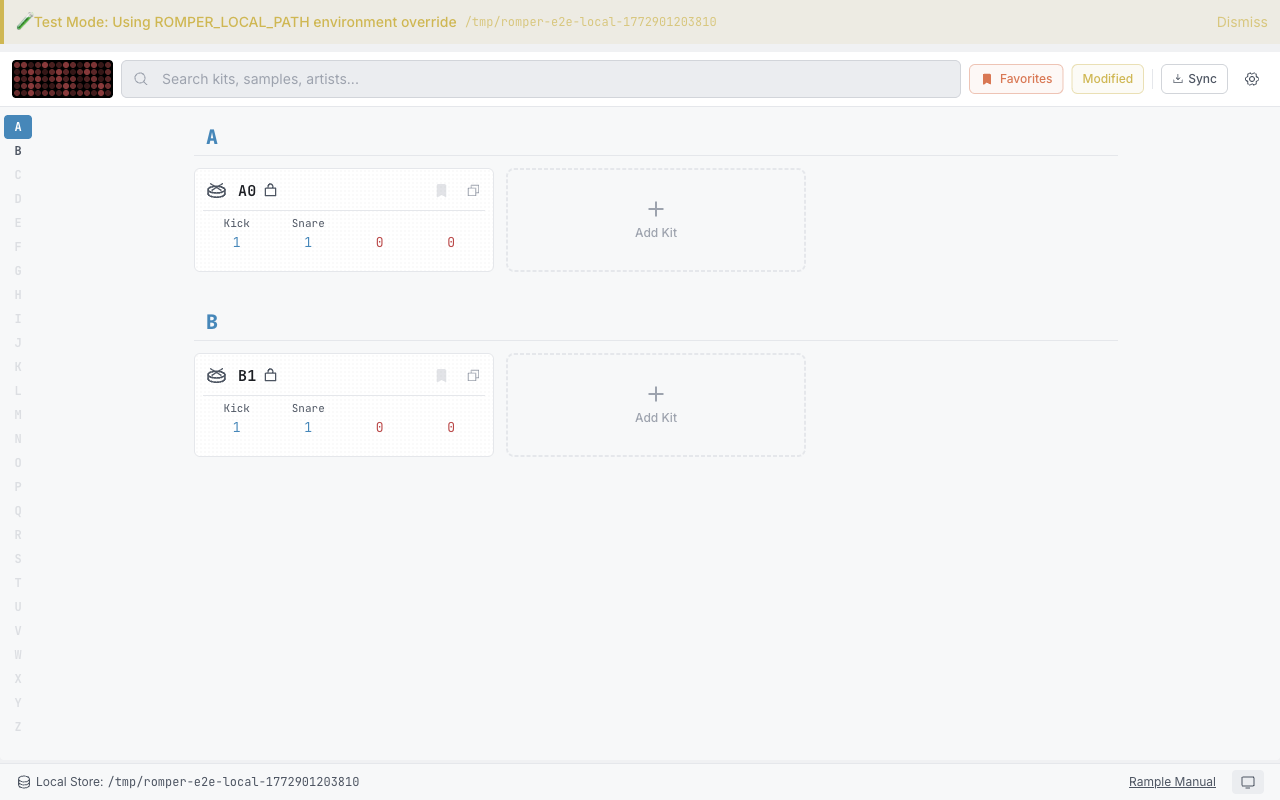
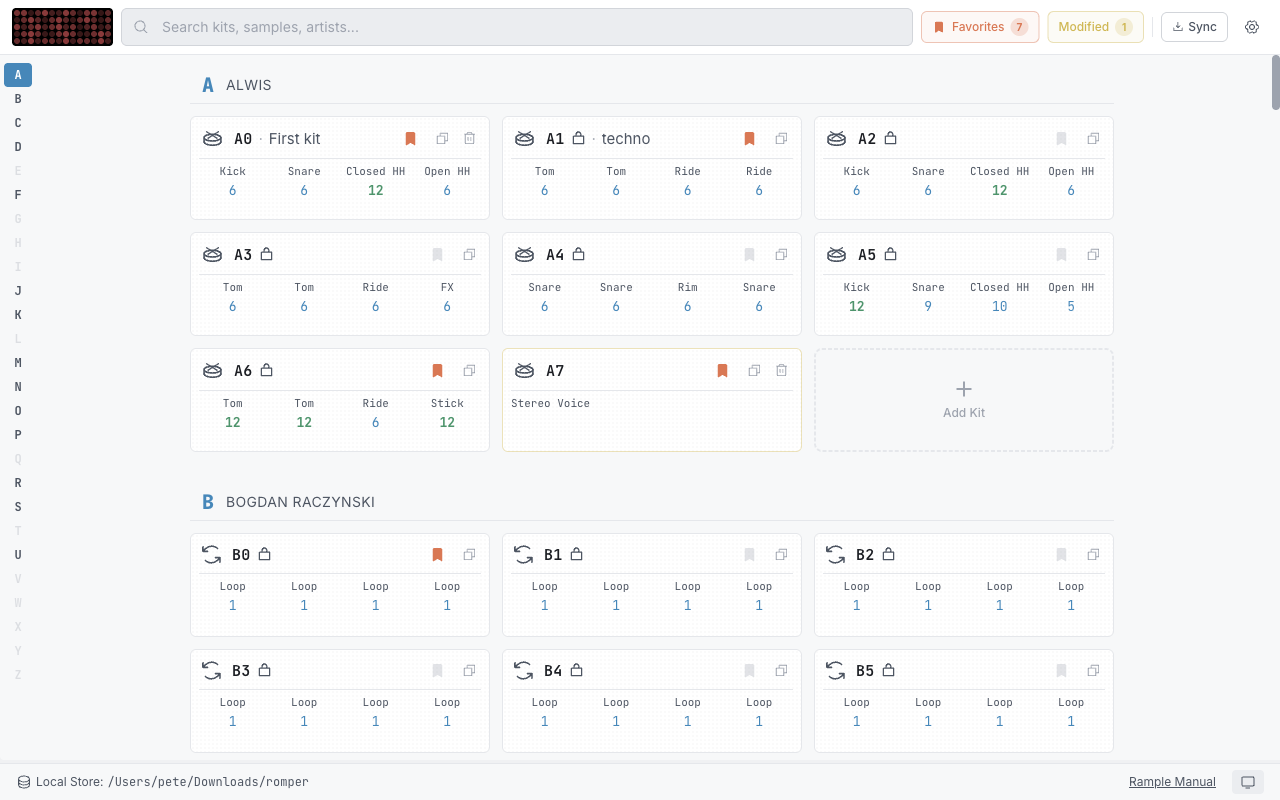
fix: use local store for screenshot capture instead of e2e fixtures (#156)
Remove e2e fixture dependency from screenshot script. The app now
launches with the real local Romper instance, producing screenshots
with actual kits and samples instead of bare test data with the
"Test Mode" banner.

diff --git a/scripts/capture-screenshots.ts b/scripts/capture-screenshots.ts
@@ -1,8 +1,13 @@
 /**
  * Screenshot Capture Script for Romper Documentation
  *
- * Launches the Electron app with e2e fixtures and captures screenshots
- * of specified views/elements for use in the website and manual.
+ * Launches the Electron app using the local Romper instance (your real
+ * local store with actual kits) and captures screenshots of specified
+ * views/elements for use in the website and manual.
+ *
+ * Prerequisites:
+ *   - A configured Romper local store with kits (the app must have been
+ *     set up at least once so romper-settings.json exists)
  *
  * Usage:
  *   npx tsx scripts/capture-screenshots.ts [--target <name>] [--all] [--list]
@@ -22,11 +27,6 @@
 import path from "path";
 import { _electron as electron } from "playwright";
 import { fileURLToPath } from "url";
-
-import {
-  cleanupE2EFixture,
-  extractE2EFixture,
-} from "../tests/utils/e2e-fixture-extractor.ts";
 
 const __dirname = path.dirname(fileURLToPath(import.meta.url));
 const ROOT = path.resolve(__dirname, "..");
@@ -275,10 +275,6 @@ async function main() {
   const { mkdirSync } = await import("fs");
   mkdirSync(path.join(DOCS_IMAGES, "manual"), { recursive: true });
 
-  // Extract e2e fixtures
-  console.log("Setting up test fixtures...");
-  const testEnv = await extractE2EFixture();
-
   let electronApp;
   try {
     // Build the app first
@@ -286,13 +282,12 @@ async function main() {
     const { execSync } = await import("child_process");
     execSync("npm run build", { cwd: ROOT, stdio: "inherit" });
 
-    // Launch Electron
-    console.log("Launching Electron...");
+    // Launch Electron using the local Romper instance (real local store)
+    console.log("Launching Electron with local store...");
     electronApp = await electron.launch({
       args: [path.join(ROOT, "dist/electron/main/index.js")],
       env: {
         ...process.env,
-        ...testEnv.environment,
       },
       timeout: 30000,
     });
@@ -371,7 +366,6 @@ async function main() {
     console.log("\nDone.\n");
   } finally {
     if (electronApp) await electronApp.close();
-    await cleanupE2EFixture(testEnv);
   }
 }
 

diff --git a/.claude/commands/capture-screenshots.md b/.claude/commands/capture-screenshots.md
@@ -6,7 +6,7 @@ allowed-tools: Bash, Read, Write, Edit, Glob, Grep, Agent
 
 Capture screenshots of the Romper app for the website and user manual. This command:
 
-1. Builds the app and launches it with e2e fixtures via Playwright
+1. Builds the app and launches it with the local Romper instance via Playwright
 2. Navigates to each view and captures screenshots
 3. Saves them to `docs/images/` (website) and `docs/images/manual/` (manual)
 4. Optionally updates the manual markdown files to reference new screenshots
@@ -64,7 +64,8 @@ When adding new screenshots that need hover states, use `captureOverride` with `
 ## Important Notes
 
 - The app must be buildable (`npm run build` must succeed)
-- E2E fixtures must be generated (`npm run fixtures:e2e` if missing)
+- The script uses the local Romper instance (your real local store with actual kits) -- no e2e fixtures
+- Romper must have been set up at least once so `romper-settings.json` exists in the Electron userData directory
 - Screenshots use a fixed 1280x800 viewport for consistency
 - The script resets to the Kit Browser between captures
 - If a `data-testid` selector is missing from a component, add it to the React component before capturing
